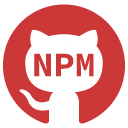
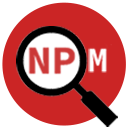
version 2.0.0; ContextMenu

diff --git a/README.md b/README.md
@@ -1,42 +1,18 @@
 # <img src="icon.png" width="30"> GitHub npm Lookup
 
-> Chrome extension - Click on github's JS import/require statements for quick npm package lookup.
+> Chrome ContextMenu Extension - Turn selected text into a quick npm package lookup.
 
-This Chrome Extension will convert your import/require package names into hyperlinks (to their respective npmjs.org profile) when viewing JavaScript source code on Github.
+## Usage
+
+1. Select some text on a webpage (like on github's source code viewer)
+2. Right click
+3. Select `Lookup on npmjs.com` from the context menu. 
+
+...Then, :boom: **BOOM!** you have saved precious time. 
 
 ![](screenshot.png)
 
-## ES6 `import`
-
- In the example below `events` and `array-uniq` are now hyperlinks to their respective npm package: 
-```js
-import {EventEmitter} from 'events';
-import arrayUniq from 'array-uniq';
-```
-    
-## ES5 `require()`
-
- In the example below `events` and `array-uniq` are now hyperlinks to their respective npm package: 
-```js
-var events =  require('events');
-var arrayUniq = require('array-uniq');
-```
-
-## Skip Local Packages
-
-Local packages are ignored, so your local packages will not be converted to hyperlinks:
-```js
-// Local packages are not converted to links:
-import something from './index.js';
-```
-
-
-## Known Limitations
-
-Currently, this extension will skip curried dependency declarations like:
-```js
-var deprecate = require('depd')('express');
-```
+**Pro Tip:** Use this extension all over github's javascript source code viewer. You can select the text inside of `require()` or `import` statements to quickly review the npm profiles of javascript modules. 
 
 ## Install
 
